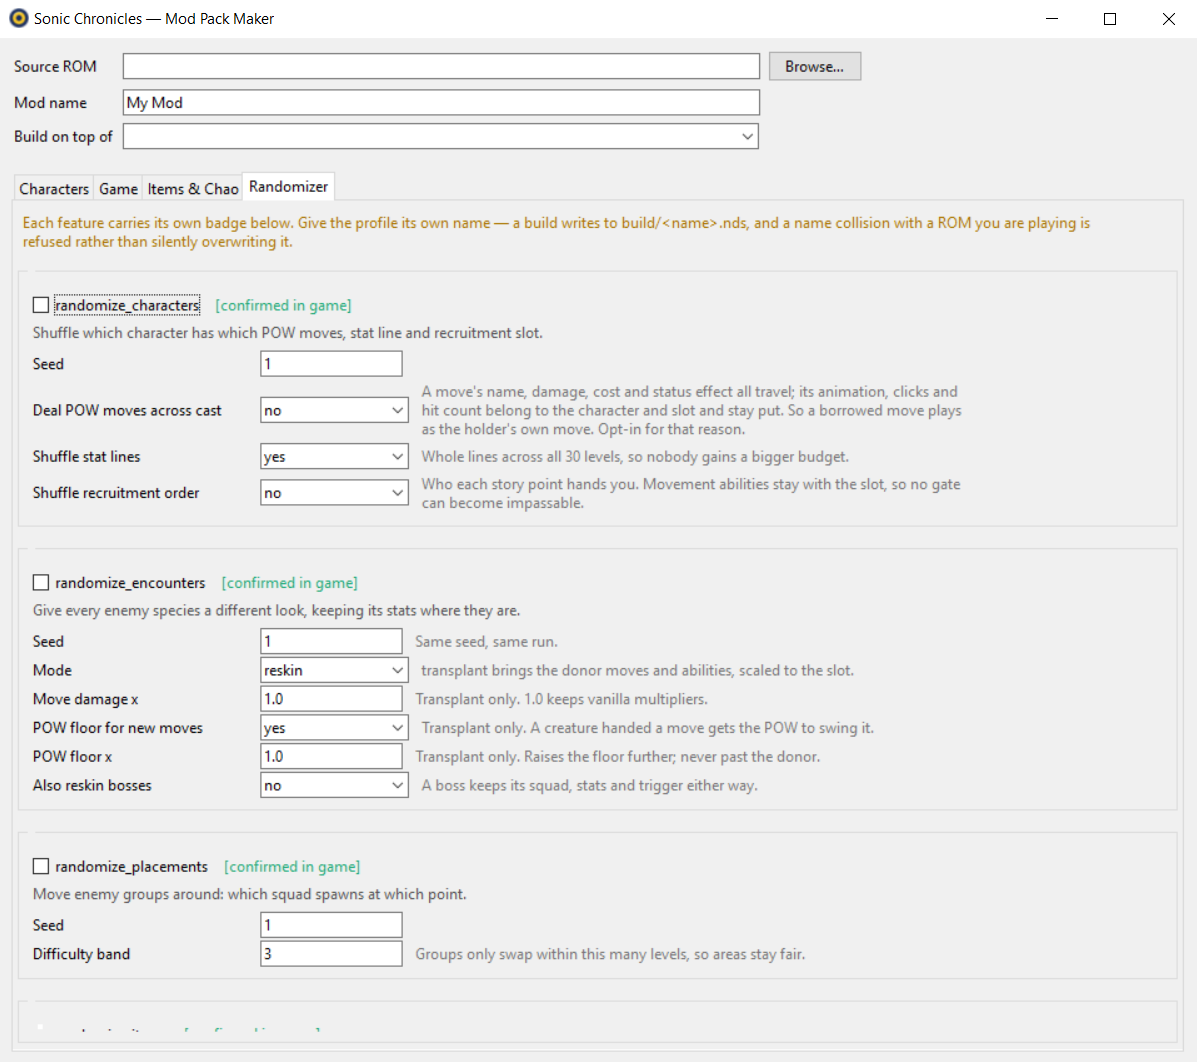
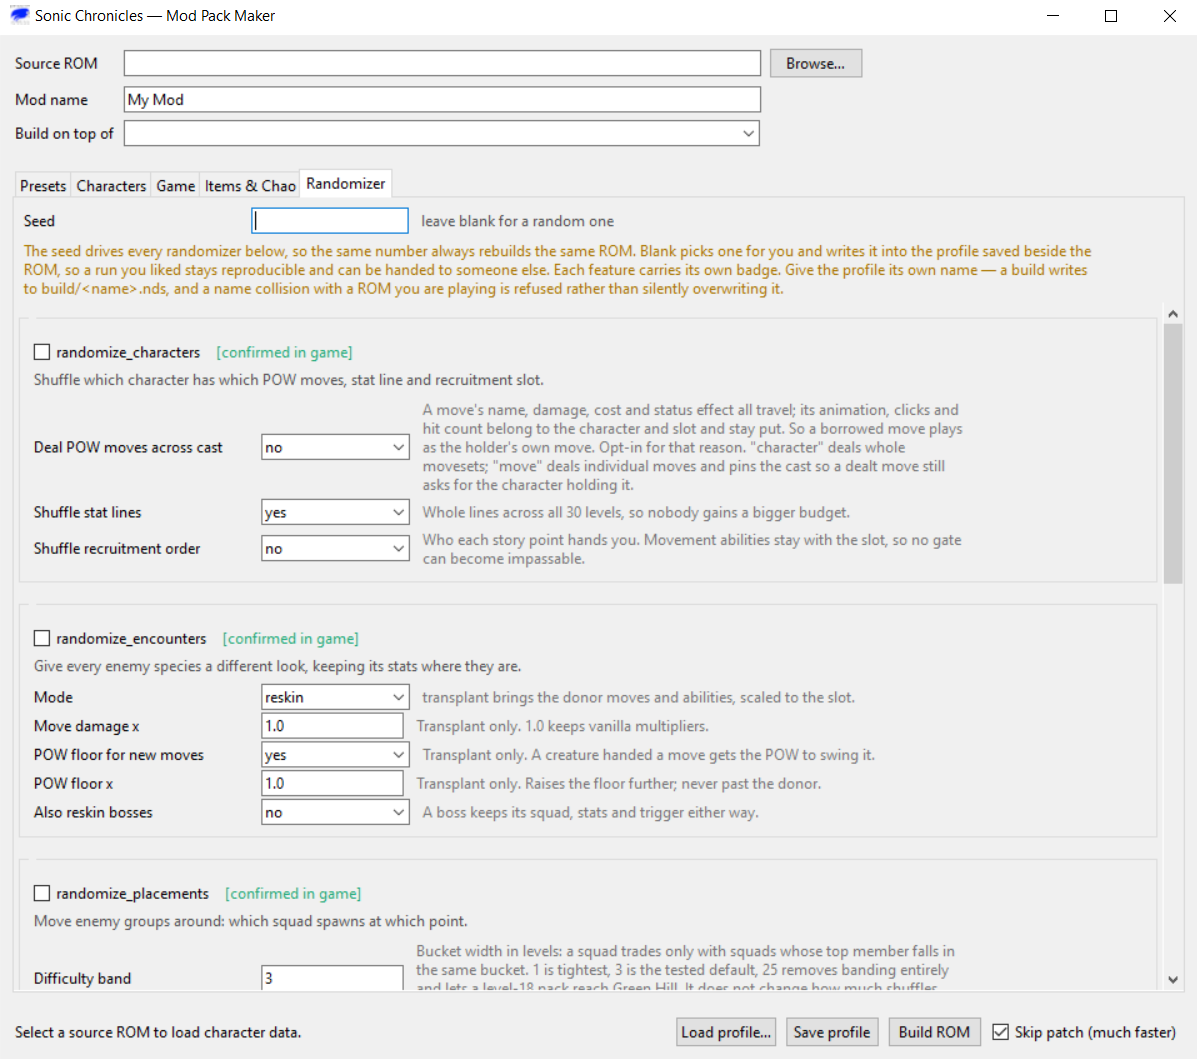
New Randomizer screenshot, and stop the GUI recommending stat shuffling
The screenshot shows the single seed box and Load profile..., which is what it is for.
It also showed two things the last hour made wrong: "Shuffle stat lines" still
defaulted to yes, an hour after the preset turned it off, and its hint read "so
nobody gains a bigger budget" - true in aggregate, and misleading as reassurance,
since what actually happens is that someone gets a worse line and a player stuck with
that someone cannot reroll.

Default flipped to no. The hint now says why, and says plainly that this is the one
half of randomize_characters never confirmed in game - which the per-feature badge
above it cannot express. The README caption carries the same caveat.

diff --git a/tools/gui/modpack_maker.py b/tools/gui/modpack_maker.py
@@ -112,8 +112,11 @@ GAME_FIELDS = {
          "borrowed move plays as the holder's own move. Opt-in for that reason. "
          '"character" deals whole movesets; "move" deals individual moves and pins '
          'the cast so a dealt move still asks for the character holding it.'),
-        ('stats', 'Shuffle stat lines', 'bool', True,
-         'Whole lines across all 30 levels, so nobody gains a bigger budget.'),
+        ('stats', 'Shuffle stat lines', 'bool', False,
+         'Whole lines across all 30 levels. Conserved across the cast - but the '
+         'starting character is the one roll you cannot reroll, and a weak line '
+         'there compounds with every other randomizer. Off by default for that '
+         'reason, and it is the one half of this feature never confirmed in game.'),
         ('recruitment', 'Shuffle recruitment order', 'bool', False,
          'Who each story point hands you. Movement abilities stay with the slot, '
          'so no gate can become impassable.'),

diff --git a/README.md b/README.md
@@ -19,11 +19,13 @@ the original.
 
 ![The Mod Pack Maker's Randomizer tab](assets/mod-pack-maker.png)
 
-*The Randomizer tab. Every feature carries the badge it earned — and as of 2026-10-11
-**all nine randomizers are `confirmed in game`**, each verified against a prediction
-made from the data before the ROM was built. `randomize_characters` leads, with its
-three halves — who each story point hands you, which POW moves they carry, and whose
-stat line they grow on.*
+*The Randomizer tab. One seed drives all nine randomizers — leave it blank and the build
+picks one, then writes it into the profile saved beside the ROM so the run stays
+reproducible. Every feature carries the badge it earned, and **all nine are `confirmed in
+game`**, each verified against a prediction made from the data before the ROM was built.
+`randomize_characters` leads, with its three halves: who each story point hands you, which
+POW moves they carry, and whose stat line they grow on. The third of those is the one
+exception to the badge — stat shuffling is build-verified only, and is off by default.*
 
 ---
 
